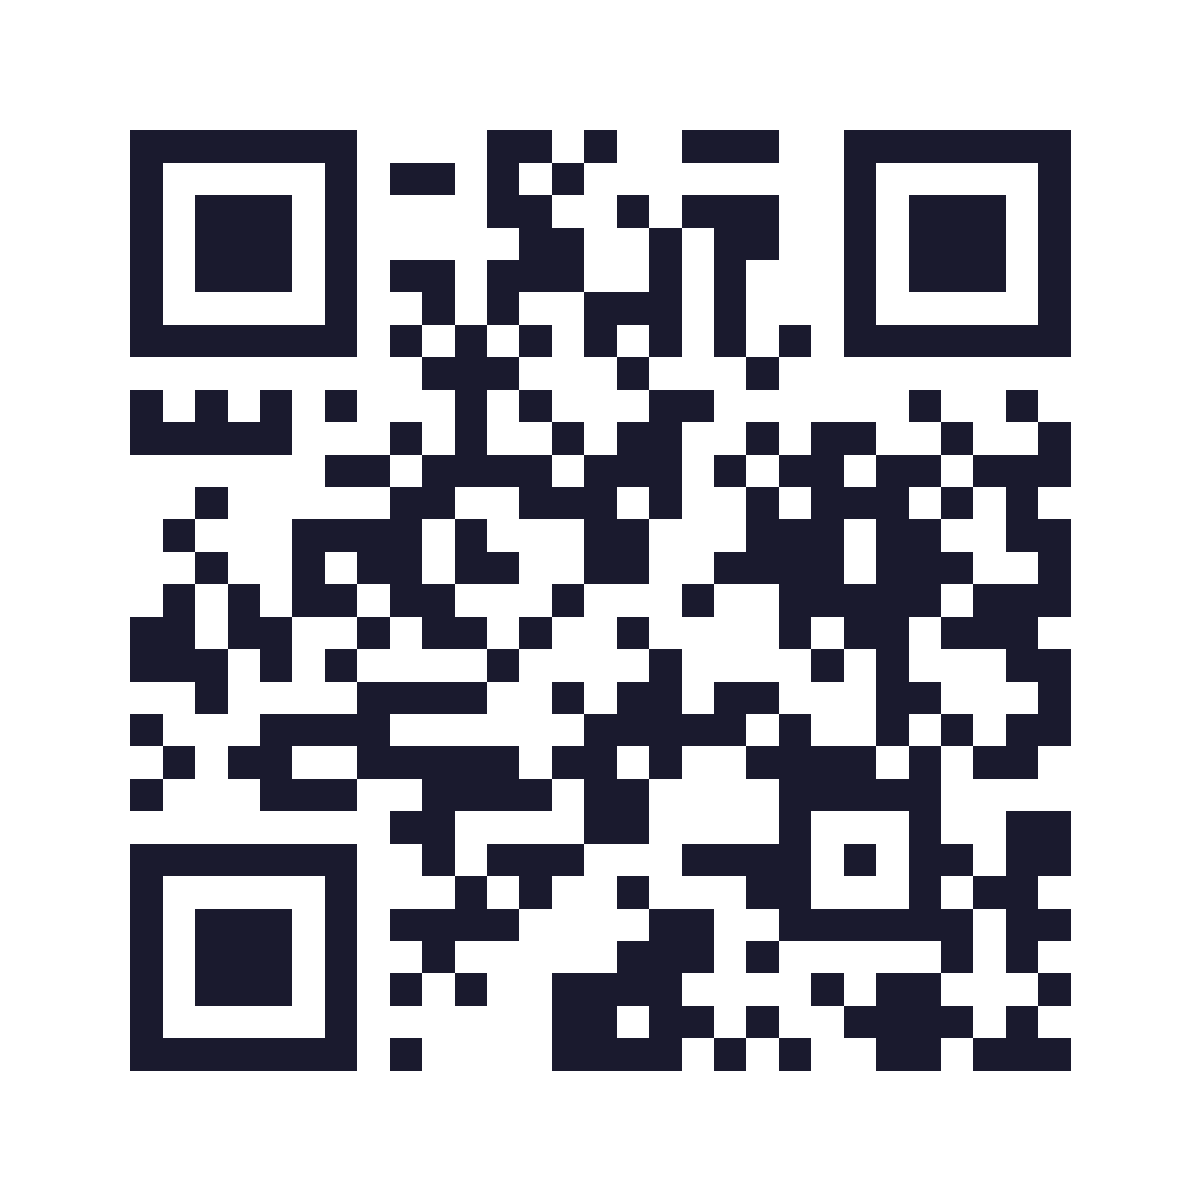
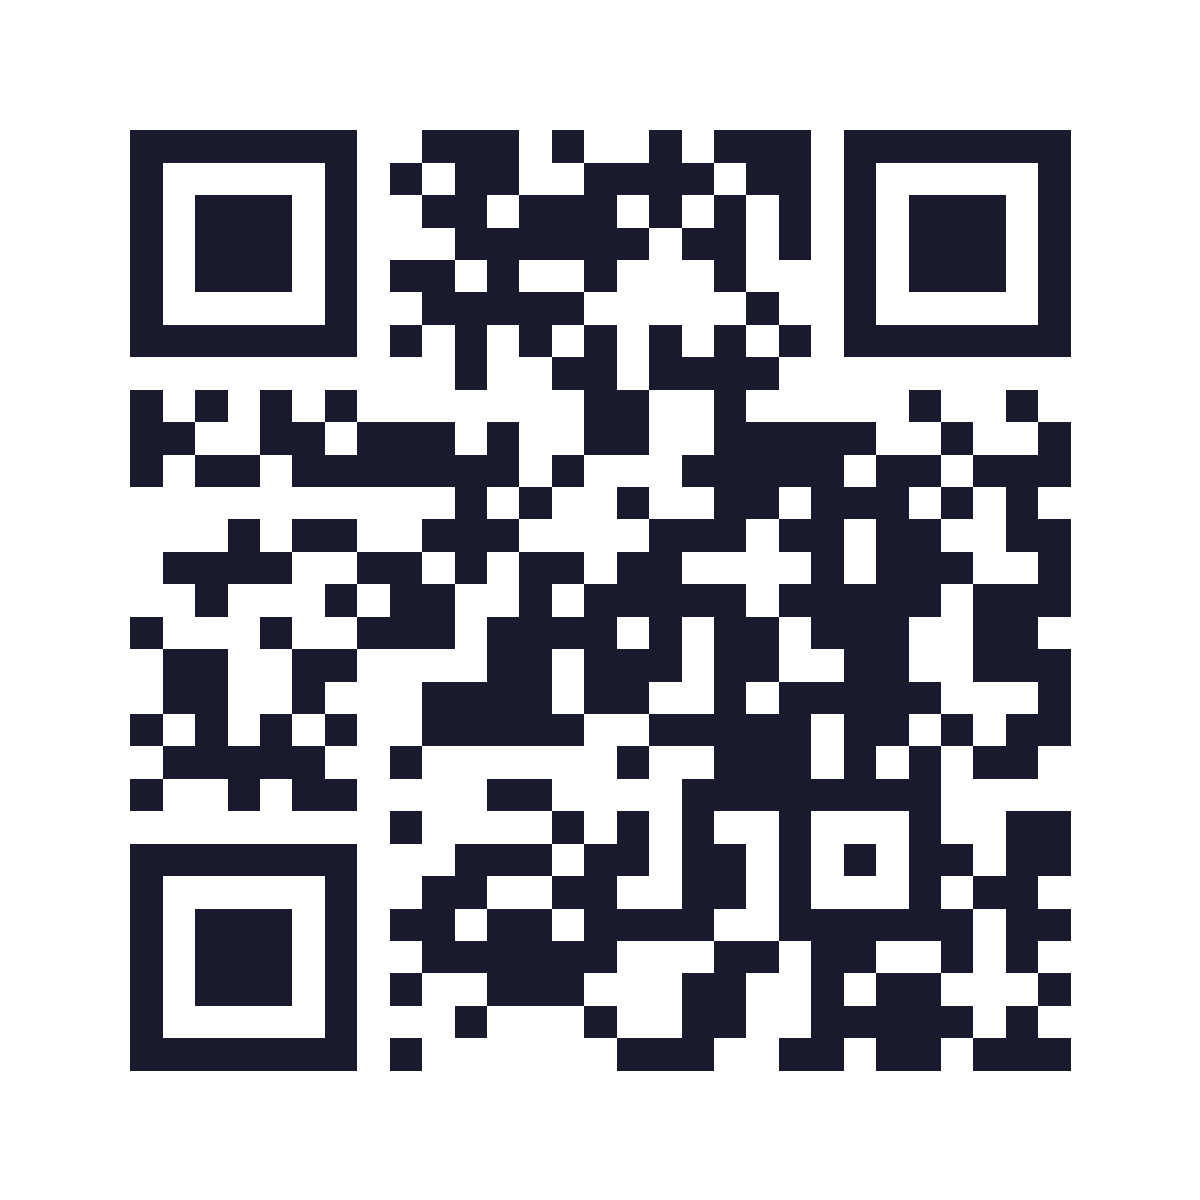
feat: add /healthz endpoint for Render health checks

Changed region(s): [[0.0925, 0.0925, 0.74, 0.8942], [0.7708, 0.4933, 0.8325, 0.5858]]

diff --git a/qr/customer-poster.html b/qr/customer-poster.html
@@ -92,7 +92,7 @@
   <div class="hero-box">
     <div class="join-title">JOIN THE QUEUE</div>
     <div class="qr-frame">
[2 lines of base64/hex data omitted]
     </div>
     <div class="scan-prompt">Scan to Get Your Token</div>
 
@@ -107,7 +107,7 @@
 
   <div class="footer">
     <div class="wifi-notice">Connect to the Service Center Wi-Fi before scanning.</div>
-    <div class="url-text">http://192.168.1.7:5173/customer</div>
+    <div class="url-text">http://192.168.137.122:5173/customer</div>
   </div>
 </body>
 </html>

diff --git a/server/src/server.js b/server/src/server.js
@@ -61,6 +61,8 @@ app.use('/api/services', serviceRoutes);
 app.use('/api/queue', queueRoutes);
 app.use('/api/analytics', analyticsRoutes);
 
+app.get('/healthz', (_req, res) => res.status(200).send('OK'));
+
 app.get('/api/health', (req, res) => {
   const lanIP = getLanIP();
   const host = req.get('host');
